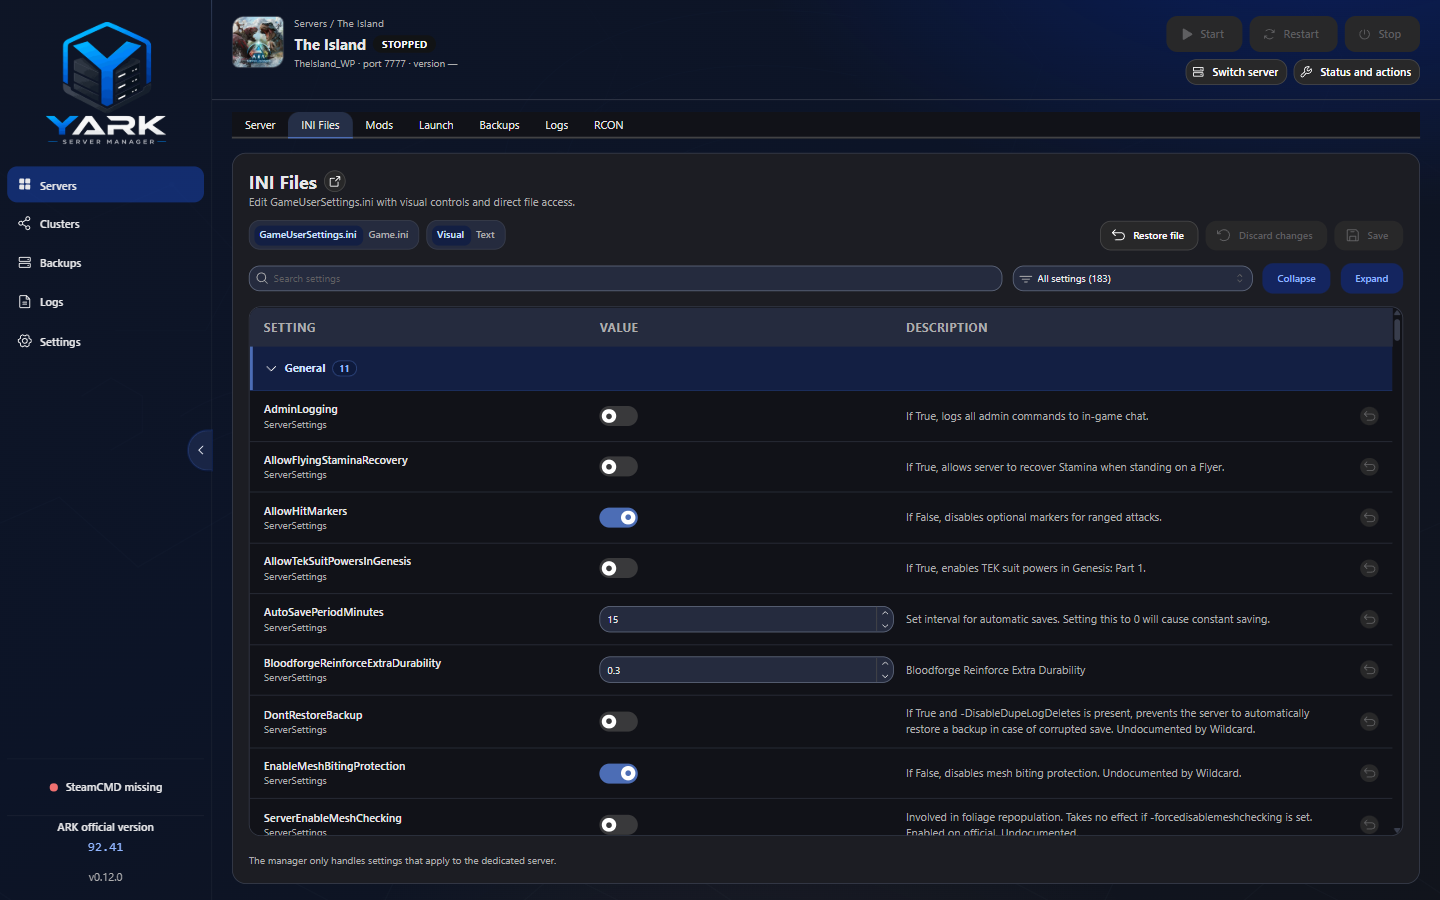
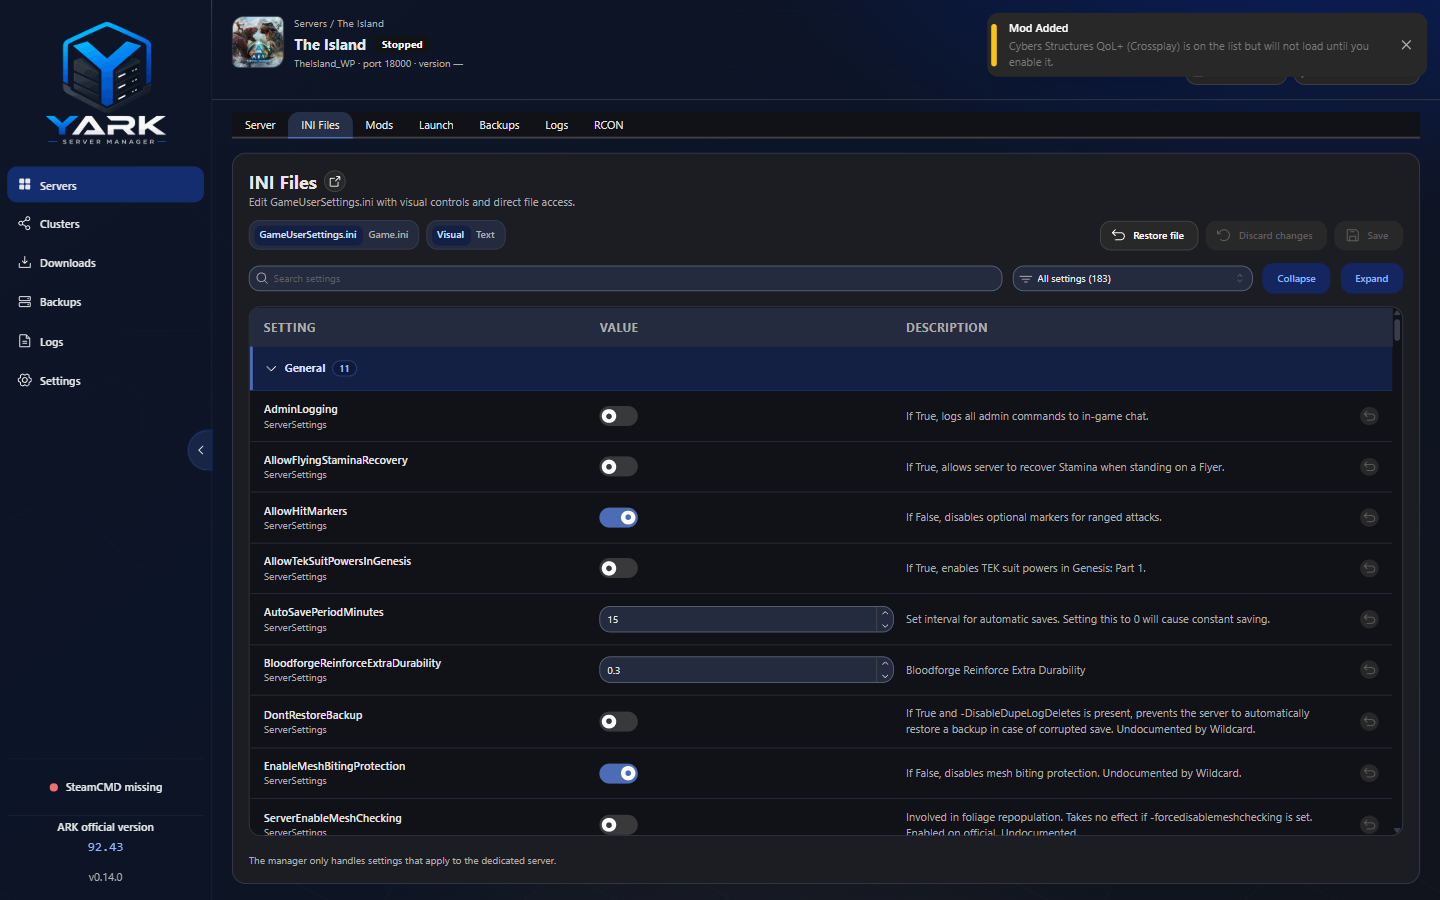
docs: refresh website gallery and operator copy for v0.14.0
Update docs and getyark.com for Update All, Downloads queue, and Launch search; recapture marketing screenshots including workspace-launch.png; fix downloads capture seed so paused jobs do not block the queue.

diff --git a/website/src/data/screenshots.ts b/website/src/data/screenshots.ts
@@ -15,13 +15,13 @@ export function screenshotSlug(shot: Screenshot): string {
 export const screenshots: Screenshot[] = [
   {
     src: withBase("/screenshots/overview.png"),
-    alt: "YARK Windows overview listing ARK Survival Ascended server profiles with map artwork, status, and recent activity",
+    alt: "YARK Windows overview listing ARK Survival Ascended server profiles with map artwork, status, fleet sort controls, and Update All",
     caption:
-      "Servers overview — profiles with map artwork, status, and recent activity in one place.",
+      "Servers overview — sort/view controls, Update All for outdated fleets, and queue status that opens Downloads.",
   },
   {
     src: withBase("/screenshots/downloads.png"),
-    alt: "YARK Downloads queue with an active SteamCMD job, queued servers, and a paused install on Windows",
+    alt: "YARK Downloads queue with an active SteamCMD verify job, queued servers, and the live console panel on Windows",
     caption:
       "Downloads — SteamCMD install, update, and verify jobs in one queue, with Pause/Resume and a live console.",
   },
@@ -36,6 +36,12 @@ export const screenshots: Screenshot[] = [
     alt: "ASA dedicated server configuration in YARK with identity, Max players, Move installation, networking, cluster, and Auto-start",
     caption:
       "Server configuration — identity, Move installation, ports, access, cluster, and Auto-start. Mods live on the Mods tab.",
+  },
+  {
+    src: withBase("/screenshots/workspace-launch.png"),
+    alt: "YARK Launch tab filtering curated ASA command-line flags with search while showing Extra arguments and the command preview",
+    caption:
+      "Launch tab — search curated ASA flags by token, description, or group; Extra arguments and the command preview stay visible.",
   },
   {
     src: withBase("/screenshots/workspace-mods.png"),

diff --git a/docs/updates-steamcmd.md b/docs/updates-steamcmd.md
@@ -108,11 +108,11 @@ Pre-update archives use backup type `pre_update` and kinds `world` / `ini`
 
 `isServerUpdateAvailable` / `getServerUpdateState` compare **Steam builds only**. Never treat runtime `ARK Version` vs an official/live server version as an update decision — staggered ASA rollouts make those non-equivalent.
 
-Official version and official build each cache for **15 minutes** in-process (`OFFICIAL_VERSION_TTL_MS`). `servers:installation` accepts `forceOfficialCheck` to bypass (used by **Check server updates**, **Update all outdated**, and **Check installs**). The status line is also parsed for network state (`Online` / `Deploying` / `Offline`); Deploying tints the sidebar version and shows a pulsing indicator.
+Official version and official build each cache for **15 minutes** in-process (`OFFICIAL_VERSION_TTL_MS`). `servers:installation` accepts `forceOfficialCheck` to bypass (used by **Check server updates**, **Update All**, and **Check installs**). The status line is also parsed for network state (`Online` / `Deploying` / `Offline`); Deploying tints the sidebar version and shows a pulsing indicator.
 
 ### Fleet update all (#378)
 
-Overview **Update all outdated** (next to **Check server updates**) opens only when at least one outdated server is stopped, enabled, install-ready, and not blocked by Downloads. The preview lists every outdated profile with current vs official Steam build when known, plus skip reasons (running, disabled, install not ready, unknown build, or an existing files job). Confirm queues one **Update** job per eligible server through the same safe-update pipeline as per-card **Update** — jobs run sequentially in Downloads order; running servers stay skipped until stopped.
+Overview **Update All** (next to **Check server updates**) opens only when at least one outdated server is stopped, enabled, install-ready, and not blocked by Downloads. The preview lists every outdated profile with current vs official Steam build when known, plus skip reasons (running, disabled, install not ready, unknown build, or an existing files job). **Accept** queues one **Update** job per eligible server through the same safe-update pipeline as per-card **Update** — jobs run sequentially in Downloads order; running servers stay skipped until stopped. The header enable state stays live while the modal is open; the modal closes as soon as queueing finishes.
 
 ### Installation health (#57)
 
@@ -180,9 +180,9 @@ Byte/`%` detail belongs on the Downloads page, not in those lock tooltips.
 
 Spawns always pass `-language english` (plus `LANG`/`LC_ALL` env) so bootstrapper lines stay English for a single-language parser. SteamCMD otherwise follows the Windows UI language (e.g. Spanish “Descargando archivos…”). Bracket `[ N%]` still updates the percent even if OS localizes; labels/KB pairs are English-only.
 
-During **robocopy** (`sync-files`), progress is a **separate phase**: SteamCMD success may reach 100%, then the dock switches to an **indeterminate** (full striped/animated) bar with the copy label — no byte totals (robocopy runs with progress silenced). A console heartbeat every 5s confirms the job is still running. Sync uses `/MT:4` and below-normal process priority so the Electron UI keeps some disk headroom. While a job is busy, the renderer skips frequent `servers:installation` polls and refreshes the install snapshot once when the job finishes.
+During **robocopy** (`sync-files`), progress is a **separate phase**: SteamCMD success may reach 100%, then the **Downloads** active job switches to an **indeterminate** bar with the copy label — no byte totals (robocopy runs with progress silenced). A console heartbeat every 5s confirms the job is still running. Sync uses `/MT:4` and below-normal process priority so the Electron UI keeps some disk headroom. While a job is busy, the renderer skips frequent `servers:installation` polls and refreshes the install snapshot once when the job finishes.
 
-> Note: agent-context historically said “live log streaming during SteamCMD is pending.” The **console/progress push channel and dock are live**. What may still feel incomplete is richer per-file update-log streaming in the Logs UI—not the SteamCMD progress path.
+> Note: agent-context historically said “live log streaming during SteamCMD is pending.” The **console/progress push channel and Downloads page are live**. What may still feel incomplete is richer per-file update-log streaming in the Logs UI—not the SteamCMD progress path.
 
 ## SteamCMD not configured
 

diff --git a/README.md b/README.md
@@ -65,12 +65,12 @@ cloud hosting service, an ARK game launcher, or an official Studio Wildcard prod
 
 | Area | What YARK provides |
 | --- | --- |
-| Server profiles | Create, clone, enable, disable, and manage multiple servers with independent paths, maps, ports, access settings, mods, and cluster fields. **Import install** adopts an existing ASA folder (ready by default; incomplete with opt-in). |
+| Server profiles | Create, clone, enable, disable, and manage multiple servers with independent paths, maps, ports, access settings, mods, and cluster fields. **Import install** adopts an existing ASA folder (ready by default; incomplete with opt-in). Overview sort/view toggles and **Update All** queue safe fleet updates into Downloads. |
 | Lifecycle | Start, stop, restart, and force-close exact managed processes; readiness waits for RCON instead of assuming a spawned process is healthy. **Remove from YARK only** keeps the install folder, or wipe everything on delete. |
 | SteamCMD | Install, update, and verify ASA server files using a shared content cache; **Downloads** queues those jobs with Pause/Resume and a live console. |
 | Safe maintenance | Coordinate stop, recovery backups, update/verify work, conditional restart, and rollback through locked backend operations. |
 | Backups | Create, restore, export, and import world / INI archives; player join/leave archives; schedule world backups and inspect fleet health. |
-| Configuration | Edit `GameUserSettings.ini` and `Game.ini` through visual and raw editors, with a guided configuration wizard. |
+| Configuration | Edit `GameUserSettings.ini` and `Game.ini` through visual and raw editors, with a guided configuration wizard. Launch tab search filters curated ASA flags. |
 | Mods | Manage CurseForge Project IDs, metadata, enable/disable state, and launch-time `-mods=` composition without embedding the CurseForge API key. **Maps** packs: enable on Mods, then pick under Server Information → Map (Map mods / Custom…). |
 | Diagnostics | Review events, runtime output, SteamCMD history, backup activity, installation health, host-port conflicts, and log retention. |
 | Windows integration | System tray, close-to-tray, Start with Windows, Auto-start with YARK, in-app YARK updates, and Windows-aware process/file operations. |

diff --git a/docs/design-system.md b/docs/design-system.md
@@ -184,7 +184,7 @@ Secondary badges (attention counts, etc.) stay for outcomes — not a second
 | --- | --- |
 | **Toast** (`notifications.show`) | Completed / failed / cancelled **operator actions** that do not need to stay on screen (Check Servers Health summary, Check server updates, SteamCMD install/update/verify, backup CRUD, prefs save fail) |
 | **Inline Alert** | **State that remains true** (files locked while updating, server running, wizard warnings, port conflicts) or confirm-modal decision context |
-| **Panel / dock** | Long-running or multi-item work (SteamCMD dock, stop progress, fleet backup alerts, Overview attention list) |
+| **Panel / dock** | Long-running or multi-item work (Downloads queue / footer teaser, stop progress, fleet backup alerts, Overview attention list) |
 | **Global AppShell banner** | Optional shell prop kept for rare app-wide hard failures; **App does not use it** for per-action IPC — prefer `showOperatorToast` / `showOperatorError` (`shared/ui/operatorToast.ts`) |
 
 Manual **Check Servers Health** ends with a toast (attention count or “all healthy”); startup **server** health scan stays silent. Quiet **YARK app** update check (~60s) toasts only when an update is available or ready to install (sidebar accent remains). SteamCMD job outcomes, `runAction` failures, and Backups page save/cleanup results use toasts, not page or AppShell banners.
@@ -221,7 +221,7 @@ sort is a temporary view; drag-to-reorder load order is enabled only while unsor
 ### 10. Elevation / motion
 
 - Panels: `--app-shadow-panel` (hairline).
-- Floating / dock: `--app-shadow-elevated` (SteamCMD dock — keep feature-local behavior).
+- Floating / dock: `--app-shadow-elevated` (Downloads footer teaser — keep feature-local behavior).
 - Motion: short transitions on selection/hover only; no decorative ambient animation in tool chrome.
 
 ### 11. Interaction density

diff --git a/docs/agent-context.md b/docs/agent-context.md
@@ -112,7 +112,7 @@ paths or the Notion hub URL in tracked files.
     the **current** map folder; no manual “all players” create or Players Import (#275).
   - **INI**: `retainCountIni`; manual + automatic `ini_save` after successful INI save (debounced ~2s).
   - Workspace UI: destination/schedule only on World subtab; auto-refresh (~12s) + Refresh button + `push:backups-changed` for live list updates.
-- SteamCMD progress/console streaming is live via `push:steamcmd-progress` on the **Downloads** page (footer teaser on other pages). Path/install are on **Settings**. Richer per-file update-log streaming in Logs may still feel incomplete. Full workflows: [updates-steamcmd.md](updates-steamcmd.md).
+- SteamCMD progress/console streaming is live via `push:steamcmd-progress` on the **Downloads** page (footer teaser on other pages). Path/install are on **Settings**. Overview **Update All** (#378) and server-list sort/view toggles (#351) live on the fleet **Servers** page. Richer per-file update-log streaming in Logs may still feel incomplete. Full workflows: [updates-steamcmd.md](updates-steamcmd.md).
 - Safe-update real-host checklist (Windows ASA) lives in [updates-steamcmd.md](updates-steamcmd.md#real-host-validation-windows); broader lifecycle aggregation / PR E2E gates: [e2e-validation.md](e2e-validation.md) (GitHub **#12**).
 
 ## Recommended verification

diff --git a/docs/logs.md b/docs/logs.md
@@ -177,7 +177,7 @@ Override with `YARK_USER_DATA` when needed (cloud agents, portable profiles).
 | Sidebar “Open in server” opens wrong tab | Check `logsFocus.section`; focus is cleared after first workspace render |
 | Clear did not remove update files | Events clear ≠ update-log clear — use Updates section clear/delete |
 | Seed script cannot find DB | App never launched, or wrong userData — set `YARK_USER_DATA` |
-| SteamCMD console empty in Logs | Live console is on the SteamCMD dock/progress push; Updates section shows **files** after jobs |
+| SteamCMD console empty in Logs | Live console is on the **Downloads** page (footer teaser elsewhere); Updates section shows **files** after jobs |
 | History disappeared after a few months | Retention policy (#84); check Settings → Log retention; deleted data is not recoverable |
 | Cleanup skipped a file | In use / permission — retry later; paths outside `update-logs` are never deleted |
 

diff --git a/docs/server-lifecycle.md b/docs/server-lifecycle.md
@@ -609,7 +609,7 @@ the path field (including folders already owned by another YARK profile):
 
 See also [backups.md](backups.md) (restore requires `!isActive`),
 [updates-steamcmd.md](updates-steamcmd.md) (stopped-server safe update,
-Overview **Update all outdated** fleet queue, `pre_update`, rollback, real-host validation),
+Overview **Update All** fleet queue, `pre_update`, rollback, real-host validation),
 [logs.md](logs.md) (runtime buffer from piped stdout/stderr and Saved/Logs tail;
 `npm run e2e:launch-args` asserts structured/raw tokens on Runtime `Commandline`),
 [rcon.md](rcon.md) (workspace console / players / ban list),

diff --git a/docs/website.md b/docs/website.md
@@ -112,7 +112,7 @@ npm run website:screenshots
 Default output is `website/public/screenshots/` (override with `WEBSITE_SCREENSHOT_OUT`).
 Requires a prior app `npm run build`, Playwright, and a Windows GUI session.
 `WEBSITE_SCREENSHOT_ONLY=downloads` recaptures only `downloads.png` (hanging SteamCMD stub so
-Active / Queued / Paused stay visible).
+Active and Queued rows stay live — a Paused job blocks the queue, so marketing seeds omit it).
 
 The capture script **always** launches Electron with an isolated `YARK_E2E_USER_DATA`
 temp profile and seeds a public demo fleet there. It never opens your normal app

diff --git a/docs/visual-testing.md b/docs/visual-testing.md
@@ -137,9 +137,8 @@ At each resolution:
 
 The review must include the full screen — shell, sidebar, and adjacent panels —
 in addition to the modified component. If the change affects the server
-workspace, review at least the Server, `INI Files` (`Game.ini` /
-`GameUserSettings.ini`), Backups, and Logs tabs (mods live on the Server form;
-there is no dedicated Mods tab yet).
+workspace, review at least the Server, Launch, Mods, `INI Files` (`Game.ini` /
+`GameUserSettings.ini`), Backups, and Logs tabs.
 
 ## Helper scripts
 
